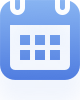
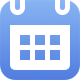
课程表添加弹窗，首页展示接口数据

diff --git a/src/pages/home/index.vue b/src/pages/home/index.vue
@@ -28,18 +28,21 @@
             <span class="title">日程安排</span>
             <span class="cl-b-gray">{{date.calendar}} | {{date.week}}</span>
           </div>
-          <span class="cl-b-gray">查看课程表<i class="icon icon-more" /></span>
+          <span @click='jumpCourse' class="cl-b-gray">查看课程表<i class="icon icon-more" /></span>
         </div>
-        <div class="content flex" v-for="item of content1" :key='item.id'>
+        <div v-if="content1.length > 0" class="content flex" v-for="item of content1" :key='item.id'>
           <span class="left">{{item.time}}</span>
           <div class="right">
             <p class="title-1">{{item.name}}</p>
             <p class="gray">{{item.addr}}</p>
           </div>
         </div>
-        <div class="footer flex-center">
-          <i class="icon icon-down-more"/>
+        <div v-if="content1.length === 0" class="none-div">
+          <p>今日无安排</p>
         </div>
+        <!-- <div class="footer flex-center" v-if="content1.length > 2">
+          <i class="icon icon-down-more"/>
+        </div> -->
       </div>
 
       <div class="box">
@@ -49,9 +52,9 @@
             <span class="title">习惯养成</span>
             <span class="cl-b-gray">{{date.calendar}} | {{date.week}}</span>
           </div>
-          <span class="gray"><i class="icon icon-more" /></span>
+          <span @click='jumpCourse' class="gray"><i class="icon icon-more" /></span>
         </div>
-        <div class="content flex" v-for="item of content2" :key='item.id'>
+        <div v-if="content2.length > 0" class="content flex" v-for="item of content2" :key='item.id'>
           <span class="left">{{item.time}}</span>
           <div class="right flex-both">
             <div>
@@ -61,9 +64,12 @@
             <p class="punch">打卡</p>
           </div>
         </div>
-        <div class="footer flex-center">
-          <i class="icon icon-down-more"/>
+        <div v-if="content2.length === 0" class="none-div">
+          <p>今日无安排</p>
         </div>
+        <!-- <div class="footer flex-center" v-if="content2.length > 0">
+          <i class="icon icon-down-more"/>
+        </div> -->
       </div>
 
       <div class="box">
@@ -84,14 +90,18 @@
 </template>
 
 <script>
-import data from "./data.js";
+import { imgIcon, imgUrls, content1, content2, scrollData } from "./data.js";
 import ScrollX from "../../components/scroll-x/scroll-x";
 
 export default {
   components: { ScrollX },
   data() {
     return {
-      ...data,
+      imgIcon,
+      imgUrls,
+      content1: [],
+      content2: [],
+      scrollData,
       date: global.PUBLIC.util.getDate(),
       indicatorDots: false,
       autoplay: false,
@@ -100,11 +110,46 @@ export default {
       onlineUrl: process.env.onlineUrl
     };
   },
+  created() {
+    global.PUBLIC.util
+      .httpGet("/schedule/trainee/2", {
+        start: this.date.calendar1,
+        end: "2018-09-29"
+      })
+      .then(res => {
+        if (Object.prototype.toString.call(res.data) === "[object Object]") {
+          this.content1 = [];
+          this.content2 = [];
+        } else {
+          res.data.forEach(value => {
+            const schedules = value.schedules[0];
+            if (schedules.schedule.type !== "leaning") {
+              this.content2.push({
+                time: `${schedules.start_hour}~${schedules.end_hour}`,
+                name: schedules.schedule.title,
+                addr: ""
+              });
+            } else {
+              this.content1.push({
+                time: `${schedules.start_hour}~${schedules.end_hour}`,
+                name: schedules.schedule.title,
+                addr: ""
+              });
+            }
+          });
+        }
+      });
+  },
   mounted() {
     global.PUBLIC.util.setTitle("首页");
   },
   computed: {},
   methods: {
+    /** 点击跳转到课程 */
+    jumpCourse() {
+      global.PUBLIC.util.jumpSwitchTab("course/main");
+    },
+    /** 点击4个bar */
     onJumpPage(node) {
       switch (node.name) {
         case "h_notice":
@@ -130,6 +175,12 @@ export default {
 </script>
 
 <style scoped lang='less'>
+.none-div {
+  font-size: 24rpx;
+  padding: 20rpx 30rpx;
+  // margin: 28rpx 0 26rpx 65rpx;
+  border-bottom: 20rpx solid @cl-8;
+}
 .header {
   border-bottom: 20rpx solid @cl-8;
   .content {
@@ -172,6 +223,7 @@ export default {
     }
     .right {
       .title-1 {
+        width: 370rpx;
         font-size: 26rpx;
         color: @cl-1;
         margin-bottom: 12rpx;
@@ -202,7 +254,7 @@ export default {
     color: @cl-1;
   }
   img {
-    height: 48rpx;
+    height: 40rpx;
     width: 40rpx;
   }
   .icon-calendar,

diff --git a/src/pages/course/index.vue b/src/pages/course/index.vue
@@ -36,7 +36,7 @@
         <div v-if="hasShowEdit" @click="onWin" class="pop-comp">
           <div class="pop-content pop-edit flex-content-center">
             <div class="main flex-content-center">
-              <div @click="onContent" v-for="item in saveData.schedules" :key="item.id">
+              <div @click="onContent" v-for="(item, i) in saveData.schedules" :key="i">
                 <div class="flex-both">
                   <p>
                     <span>{{item.start_hour}}~{{item.end_hour}}</span>
@@ -123,7 +123,7 @@ export default {
       hasAdd: false,
       // EditCard组件数据
       editCardData: null,
-      // 弹出哪个弹出框
+      // 弹出哪个弹出框 {1|2|3|4|5}  等于5表示不弹出
       page: 5,
       // btns组件数据
       ...btnsData,
@@ -138,6 +138,7 @@ export default {
   },
   components: { DateList, EditCard, Btns },
   onLoad() {
+    this.page = Number(wx.getStorageSync('page')) || 1;
     this.init();
   },
   /** 页面返回执行方法 */
@@ -149,6 +150,15 @@ export default {
   },
   computed: {},
   methods: {
+    /** 缓存数据
+     * @param {String} value 保存的值
+     */
+    saveLocal(value) {
+      wx.setStorage({
+        key: "page",
+        data: String(value)
+      });
+    },
     /** 单击课程表节点
      * @param {Object} node 节点属性
      * @memberof DateList
@@ -221,14 +231,17 @@ export default {
     /** 点击弹窗叉号 */
     onCross() {
       this.page = 5;
+      this.saveLocal(this.page)
     },
     /** 单击继续 */
     onNext() {
       this.page += 1;
+      this.saveLocal(this.page)
     },
     /** 跳过此步骤 */
     onJumpOver() {
       this.page += 1;
+      this.saveLocal(this.page)
     },
     /** 单击 + 号 */
     onShowAdd() {

diff --git a/src/public/util.js b/src/public/util.js
@@ -97,6 +97,7 @@ const util = (() => {
       minutes,
       second,
       calendar: `${year}年${month}月${day}日`,
+      calendar1: `${year}-${month}-${day}`,
       dayCountOfMonth,
       thisWeek
     }
@@ -214,9 +215,9 @@ const util = (() => {
    * @param {Boolean} showError 是否显示错误信息
    */
   function httpGet(url = '', body = {}, showError = false) {
-    wx.showLoading({
+    /* wx.showLoading({
       title: '加载中',
-    })
+    }) */
     return new Promise((resolve, reject) => {
       wx.request({
         url: `${ip + url}`,
@@ -229,7 +230,7 @@ const util = (() => {
           "content-type": "application/json"
         },
         success: res => {
-          wx.hideLoading()
+          // wx.hideLoading()
           if (showError) {
             if (res.statusCode < 200 || res.statusCode > 300) {
               wx.showToast({
@@ -278,6 +279,15 @@ const util = (() => {
       success,
       fail,
       complete
+    })
+  }
+
+  /** 跳转到 tabBar 页面，并关闭其他所有非 tabBar 页面
+   * @param {String} url 
+   */
+  function jumpSwitchTab(url) {
+    wx.switchTab({
+      url: `../${url}`
     })
   }
 
@@ -339,7 +349,8 @@ const util = (() => {
     calDistance,
     getDate,
     jumpApiDate,
-    conversionDate
+    conversionDate,
+    jumpSwitchTab
   }
 })()
 

diff --git a/src/pages/edit-habit/index.vue b/src/pages/edit-habit/index.vue
@@ -48,16 +48,16 @@ export default {
         // 习惯养成计划的编辑
         this.timeArr = global.PUBLIC.util.jumpApiDate(this.data.rules);
       } else if (this.hasDataNum === "2") {
-        // 添加习惯编辑
-      } else {
         // 课程表弹出框的编辑 TODO
-        this.data.describe = this.data.schedule.describe;
         const { id } = this.data.schedule;
         global.PUBLIC.util.httpGet(`/lesson/user`, { id }).then(res => {
           const items = res.data.items[0];
+          this.data = items;
           // 时间
           this.timeArr = global.PUBLIC.util.jumpApiDate(items.rules);
         });
+      } else {
+        // 添加习惯编辑
       }
     } else {
       this.timeArr = [];

diff --git a/src/components/edit-card/edit-card.vue b/src/components/edit-card/edit-card.vue
@@ -49,15 +49,8 @@ export default {
     .icon {
       margin-left: 36rpx;
       margin-right: 25rpx;
-    }
-    .icon-0,
-    .icon-1 {
-      height: 60rpx;
-      width: 40rpx;
-    }
-    .icon-2 {
-      height: 79rpx;
-      width: 31rpx;
+      height: 80rpx;
+      width: 80rpx;
     }
   }
   .edit {

diff --git a/src/pages/home/data.js b/src/pages/home/data.js
@@ -58,7 +58,7 @@ const scrollData = [
   },
 ]
 
-export default {
+module.exports = {
   imgIcon,
   imgUrls,
   content1,
